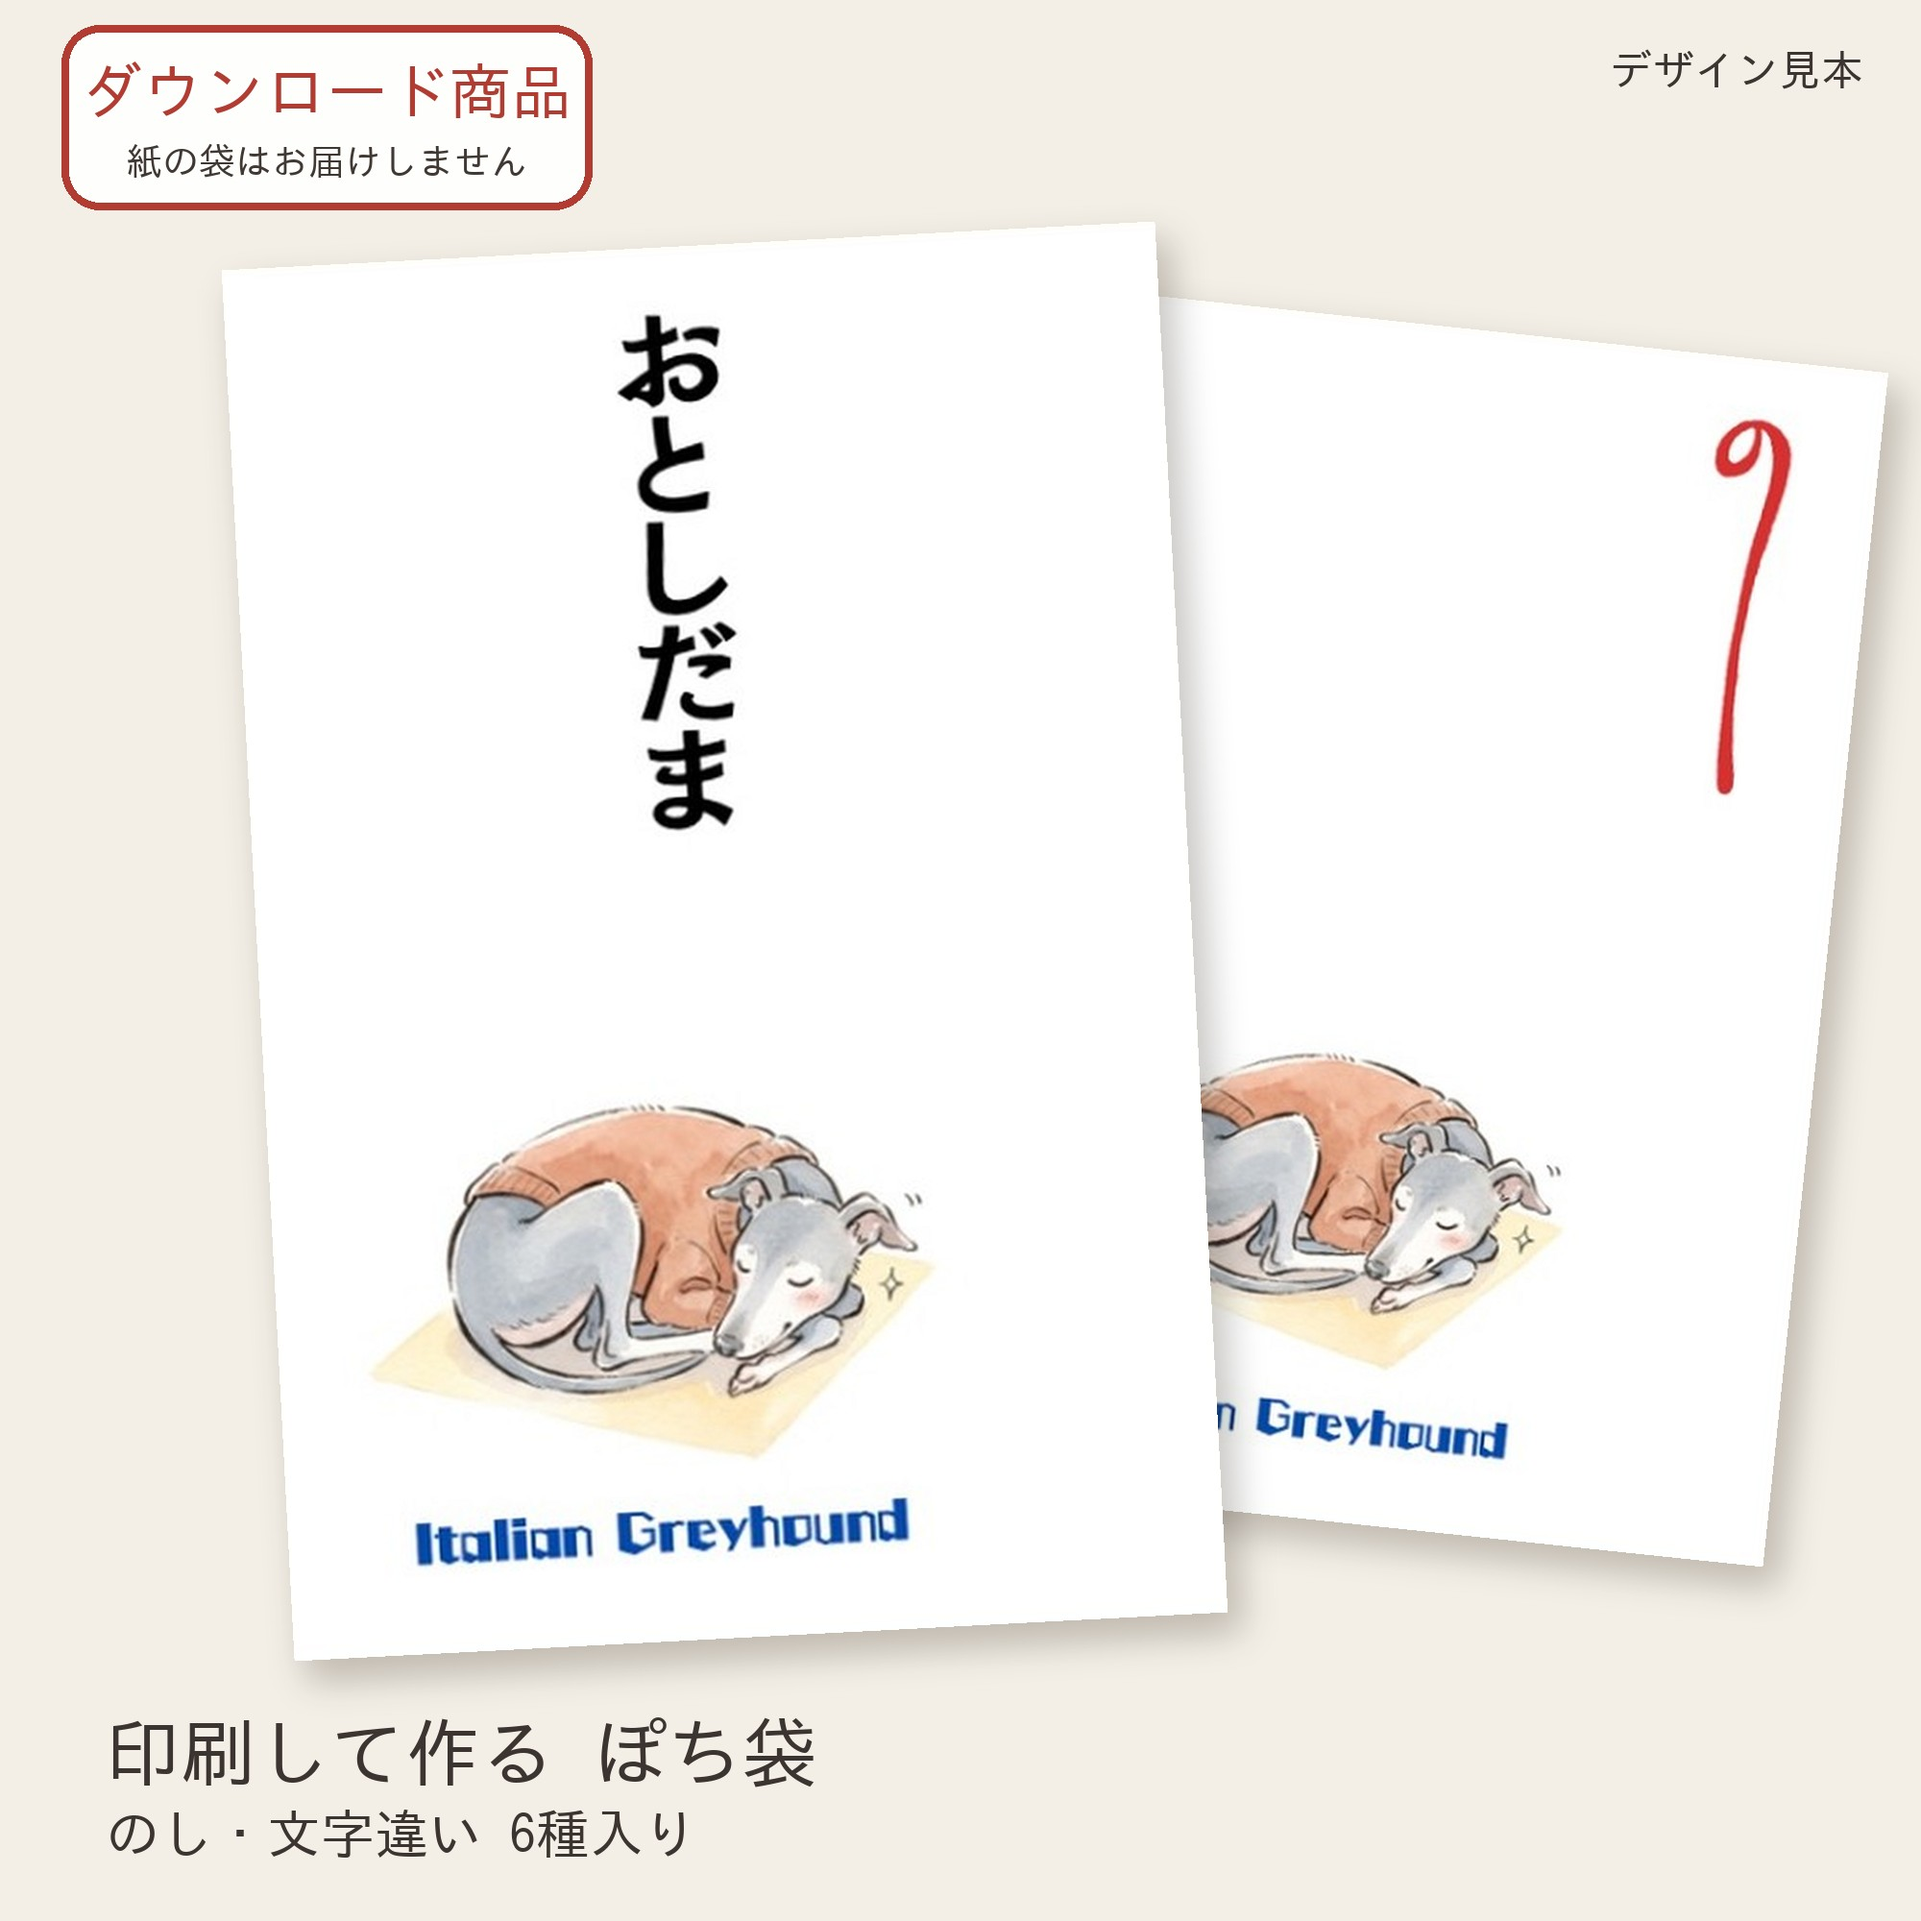
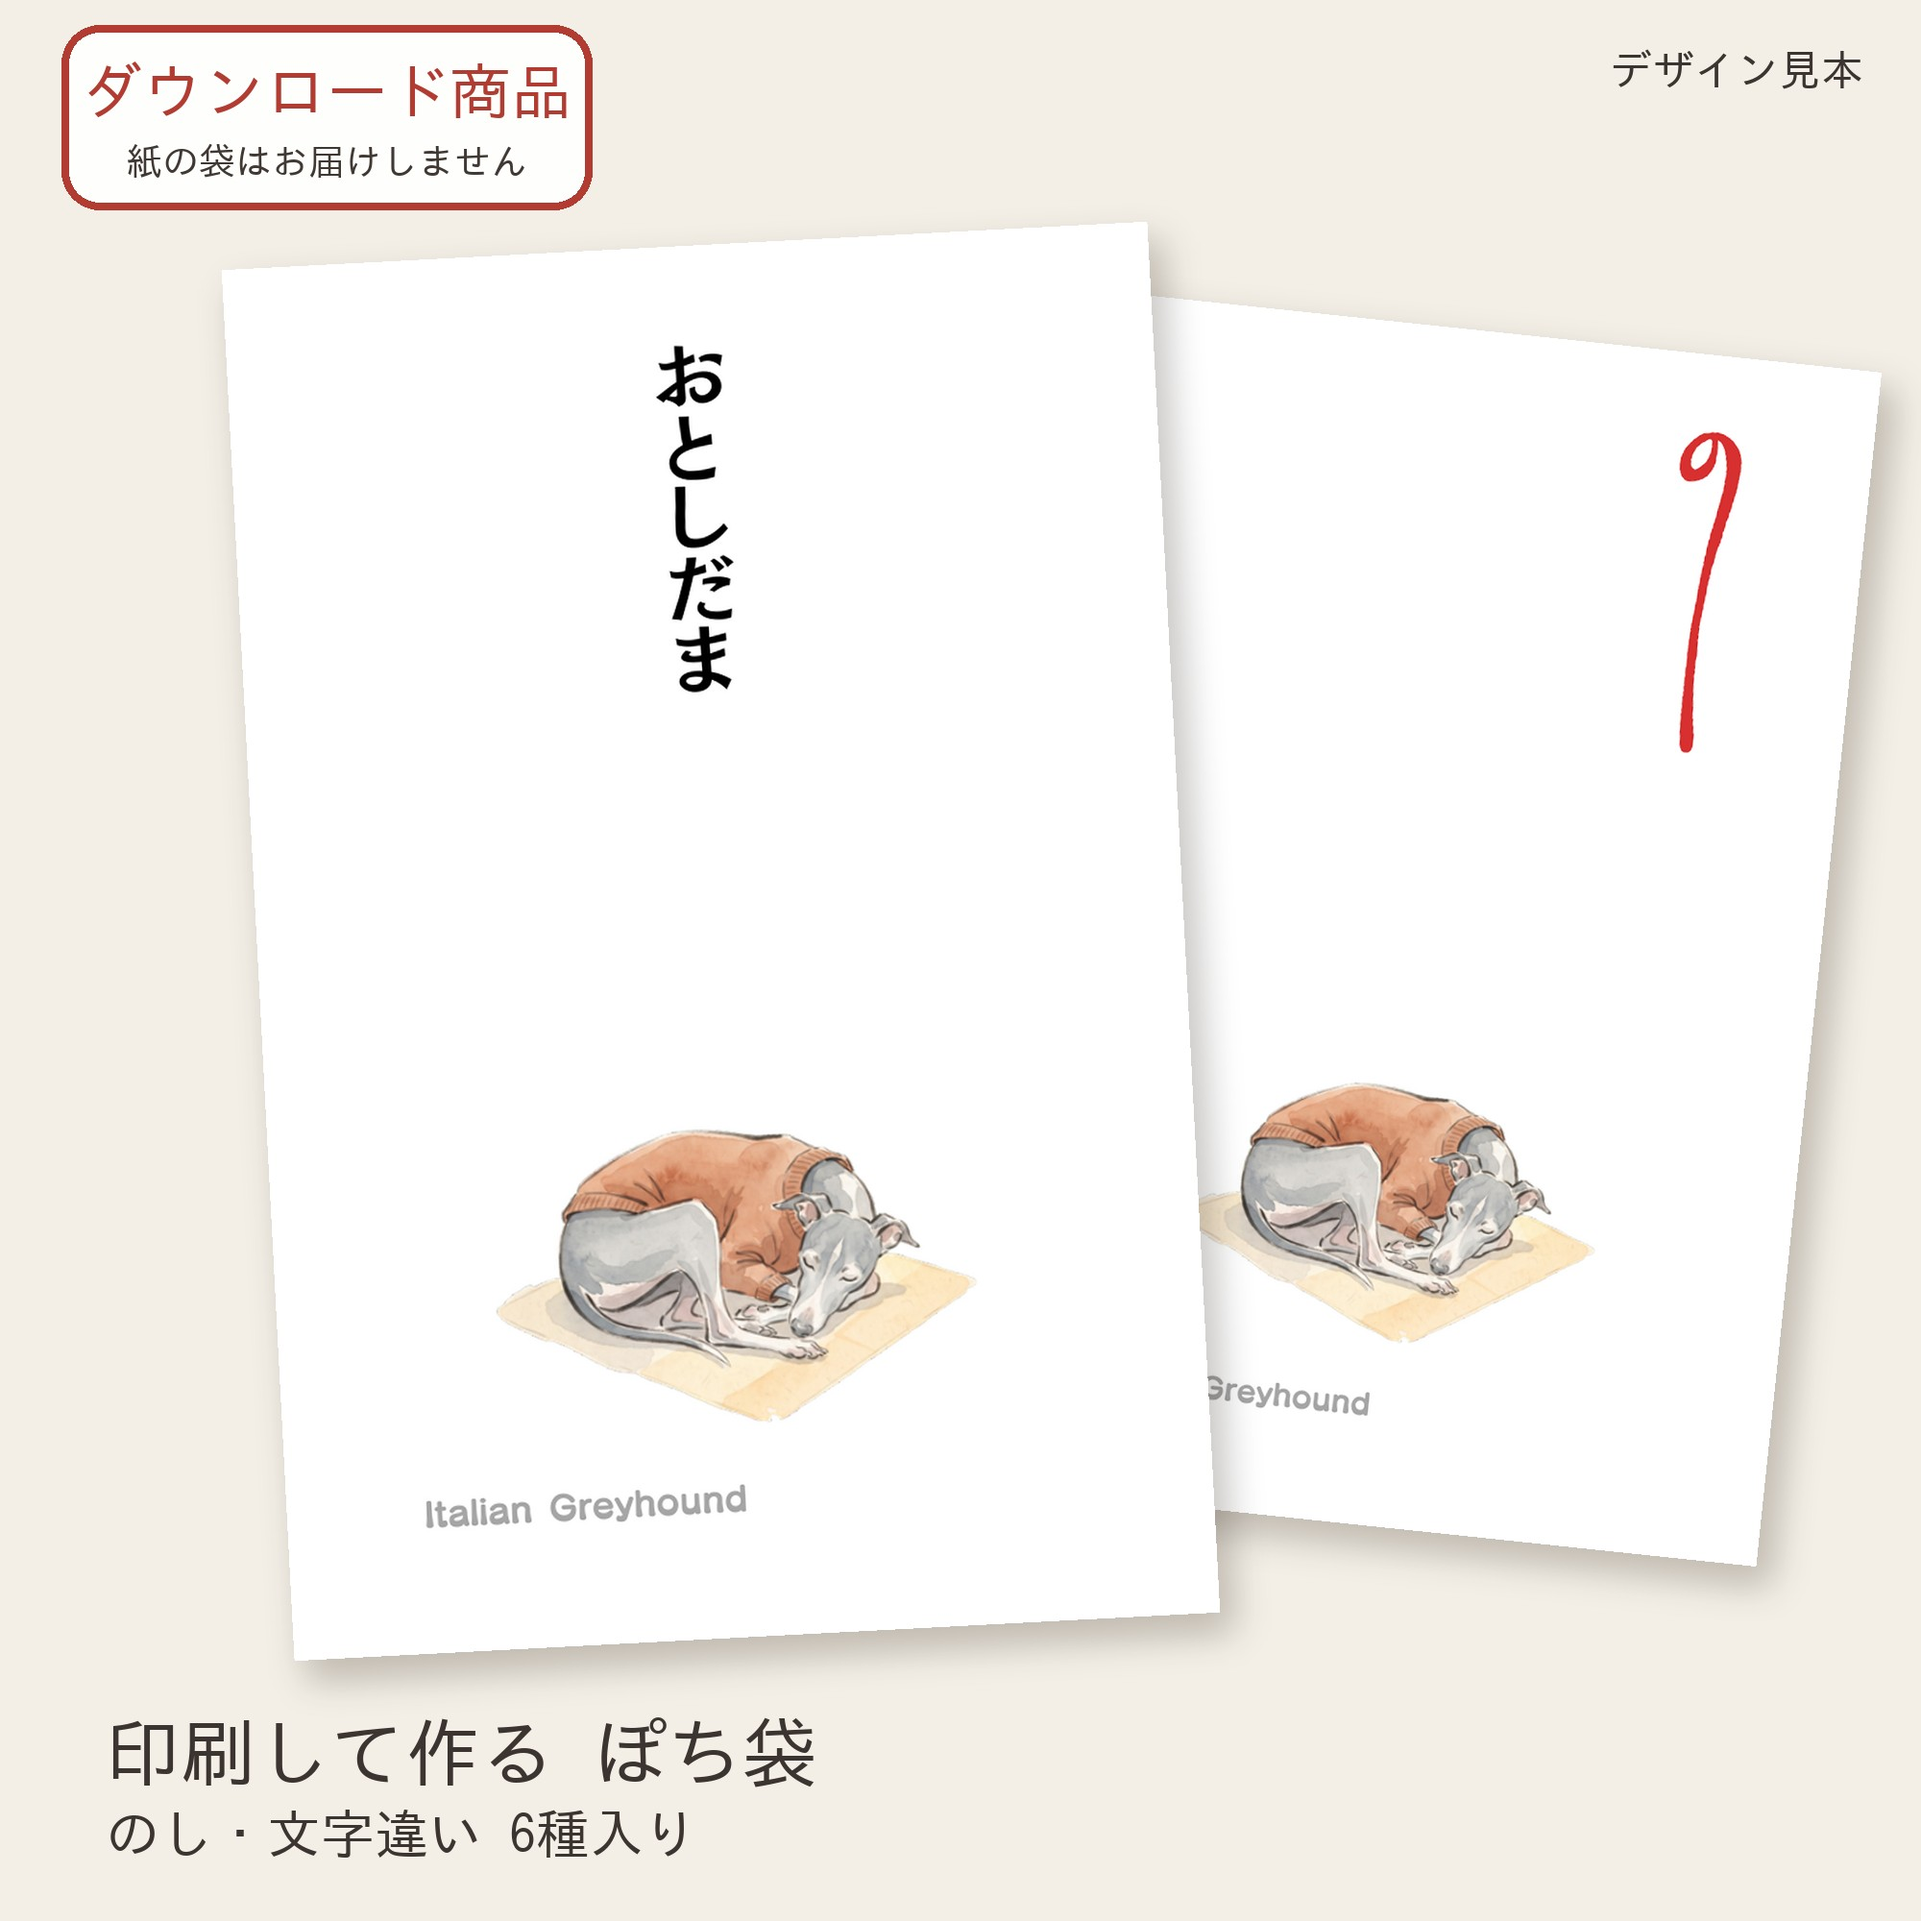
イタグレ: 作り直した絵で商品画像(1・3枚目)と、ポストカード入りの出品文
Claude-Session: https://claude.ai/code/session_017Q7oY74jx7snH393ipSzN7

diff --git a/docs/minne-pochi-listing-italiangreyhound.md b/docs/minne-pochi-listing-italiangreyhound.md
@@ -1,29 +1,33 @@
-# 出品文(STEP5) イタリアン・グレーハウンドのぽち袋 データ版
+# 出品文(STEP5) イタリアン・グレーハウンドのぽち袋+ポストカード データ版
 
-ほかの犬種は、【】の部分(犬種名・あるある・物語の一段落・タグ1つ)を差し替えるだけで使えるひな形。
+犬の新しい形(500円)に、ポストカード2種を足した版(柴犬と同じ形)。絵は墨絵の書き方に直した指示文(`minne-pochi-dogs-painterly.md` のイタリアン・グレーハウンド)で作り直した。Canvaの共通マスターで作り、画像はPDFから `shop/make_from_pdf.py` で作った。
 
 ## 商品名
-イタリアングレーハウンドのぽち袋 日だまりで丸まり寝｜お年玉・お礼に｜印刷して作るダウンロード版 のし付き6種(AIを用いた作品)
+イタグレのぽち袋とポストカード 日だまりで丸まり寝｜お年玉・お礼に｜印刷して作るダウンロード版 のし付き6種(AIを用いた作品)
+- 長くなるので「イタリアングレーハウンド」を「イタグレ」にした(タグには両方入れる)
+- minneの商品名の文字数の上限に入るか、出品の画面で確かめる。入らないときは「｜お年玉・お礼に」を外す
 
 ## 価格(仮)
 500円
-- 理由: 1つのデータで6種類の文字違いが入り、個人で使う分は何枚でも印刷できる。紙のぽち袋5枚セット(数百円〜)より安く、気軽に試せる値段。
-- **出品前にminneで「ぽち袋 ダウンロード」を検索し、同じようなデータの価格を確かめる。** 相場が200円前後なら合わせる。
 
 ## 発送
 なし(ダウンロード販売。購入後すぐにダウンロードできる)
 
 ## タグ(5つ)
-イタリアングレーハウンド / イタグレ / ぽち袋 / お年玉袋 / 犬好き
+イタリアングレーハウンド / イタグレ / ぽち袋 / ポストカード / お年玉袋
+- 前の「犬好き」を「ポストカード」にした
 
 ## 説明文
 ```
 毛が短くて、大の寒がり。部屋のどこに暖かい日だまりができるのか、ちゃんと知っています。セーターを着たまま、その小さな日だまりにすっぽり収まって、まあるくなってすやすや。
-イタグレと暮らす人なら、きっと毎日見ている「日だまりの特等席」を、ぽち袋にしました。
+イタグレと暮らす人なら、きっと毎日見ている「日だまりの特等席」を、ぽち袋とポストカードにしました。
 
 お年玉やちょっとしたお礼を渡すとき、袋を見た相手が「うちの子もこれやる!」と笑ってくれたら。そんな一枚になればうれしいです。
+ポストカードは、飾ったり、お手紙に使ったりできます。
 
 絵は、墨と淡い水彩で描いたような雰囲気に仕上げました。ぽち袋という和の袋に合うように、落ち着いた色にしています。
+
+※画像は『かんたん4ステップ』以外、AIで作ったイメージ画像です。袋の絵柄は実際の商品と同じです。
 
 ━━━━━━━━━━
 ■ 中身(ZIPファイル1つ)
@@ -32,9 +36,12 @@
  1ページに同じ袋が2つ入っています。使いたいページだけを印刷してください。
  1:のしも文字もなし(手書き用) 2:のしのみ 3:おとしだま
  4:ありがとう 5:おめでとう 6:こころばかり
+・italiangreyhound_postcard_full.pdf(ポストカード・絵を大きく入れたもの、ハガキの大きさ)
+・italiangreyhound_postcard_letter.pdf(ポストカード・手紙用。すみに小さく絵を入れ、文字を書くところを広くとったもの)
 ・howto.pdf(作り方とご利用について、A4・3ページ)
 
-仕上がりの大きさ:64×95mm(一万円札を三つ折りにして入ります)
+ぽち袋の仕上がりの大きさ:64×95mm(一万円札を三つ折りにして入ります)
+ポストカードの大きさ:100×148mm(はがきと同じ大きさです)
 
 ━━━━━━━━━━
 ■ 作り方
@@ -45,6 +52,8 @@
 貼るときは、スティックのり(固形のり)か両面テープをお使いください。液体のりは、水分でインクがにじむことがあります(とくにインクジェットプリンター)。
 ふたは、シールや両面テープで留めてください。
 詳しくは、中に入っている説明書をご覧ください。
+
+ポストカードは、はがき用紙に「実寸(100%)」で印刷するだけで使えます(切る必要はありません)。プリンターの用紙の設定は「はがき」を選んでください。
 
 ━━━━━━━━━━
 ■ ご注意
@@ -70,18 +79,33 @@
 ない犬種・猫の柄は、メッセージでリクエストをお寄せください。多頭飼いの方の組み合わせのご相談もどうぞ。
 ```
 
+## 確かめること(出品前)
+- 絵を確かめた(作り直した絵): 青灰色のイタグレ(成犬)が、赤茶のセーターを着て、四角い日だまりの中でまるくなって寝ている。目はやわらかく閉じていて、顔はやさしい。前の絵のほおの赤み・キラキラはなくなり、漫画っぽさはない
+- 袋の名前は「Italian Greyhound」(うすい灰色の丸い書体)。18か所とも正しいつづり。縦書きの文字は黒
+- 名前の灰色は、ほかの子の名前より少しうすい。印刷してうすすぎないか、試し刷りで確かめるとよい(ユーザーに伝えた)
+- 袋の表は6ページとも64×95mm
+- 前の場面写真(ユーザーが自分で作ったもの)は、前の絵なので使わない
+
+## 場面写真(Geminiのプロンプト)
+袋は真っ白で、ふたを閉じた表側だけ(ふたの線なし、幅:高さ=2:3)で作ってもらい、本物の絵はあとで `shop/make_scene_blank.py` で貼る。
+```
+A warm, natural lifestyle photo, square 1:1. A cozy Japanese living room in soft winter afternoon light, with a light-wood floor. A bright square patch of sunlight falls on the floor from the window. The background is softly blurred.
+
+On the floor, one small closed Japanese pochi-bukuro money envelope stands upright, propped against a small wooden box. We see only its FRONT side: one clean, flat, plain rectangle of matte white paper with crisp square corners. The flap is already closed and folded to the back, so NO flap, NO V-shaped fold, NO seam and NO fold lines are visible on the front. The rectangle is exactly 2:3 in width to height (6.4 cm wide, 9.5 cm tall), not narrower. The front is COMPLETELY BLANK: no drawing, no text, no pattern, no logo, no noshi mark. The envelope faces the camera straight on, flat and not tilted, with all four corners clearly visible and not covered by anything. It stands in the front right of the frame, outside the sunlight patch, and takes up about 25% of the image width, large and easy to see.
+
+On the left, inside the patch of sunlight, a real adult blue-gray Italian Greyhound wearing a rust-orange knitted sweater is curled up asleep in a tight round donut shape, its thin tail wrapped toward its nose, eyes gently closed, looking warm and peaceful. Real dog, not a cartoon. The dog does not touch or cover the envelope.
+
+Photorealistic, shallow depth of field, gentle shadows, calm muted colors. No people, no hands, no text anywhere in the image.
+```
 
 ## ZIPの名前
-uchinoko-aruaru_italiangreyhound_pochi.zip
-
-## 確かめること(出品前)
-- 絵は青みがかったグレー(ブルー)の毛色に、赤茶色のセーター。ほかの毛色(フォーン、レッド、ブラック、白など)の要望があれば、別の出品にする
+uchinoko-aruaru_italiangreyhound_pochi.zip(中身: italiangreyhound_pochi.pdf、italiangreyhound_postcard_full.pdf、italiangreyhound_postcard_letter.pdf、howto.pdf)
 
 ## 商品画像
 1. shop/listing_italiangreyhound_1.jpg(デザイン見本)
-2. shop/listing_italiangreyhound_3.jpg(6種類)
-3. shop/listing_shiba_4.jpg(作り方)
-
-## 説明文に入れる一文(ユーザーの決まり)
-説明文の「絵は、墨と淡い水彩で…落ち着いた色にしています。」の段落の次に、1行あけてこの一文を入れる:
-`※画像は『かんたん4ステップ』以外、AIで作ったイメージ画像です。袋の絵柄は実際の商品と同じです。`
+2. shop/scene_italiangreyhound_1_note.jpg(場面写真)(まだ。Geminiの写真を待っている)
+3. shop/listing_italiangreyhound_3.jpg(6種類)
+4. shop/listing_italiangreyhound_postcard.jpg(ポストカード2種の見本)(まだ。もとの絵を待っている)
+5. ポストカードの場面写真(まだ)
+6. shop/listing_shiba_4.jpg(作り方)
+- 1と3は `python3 shop/make_from_pdf.py <PDF> italiangreyhound --overwrite` で作った
